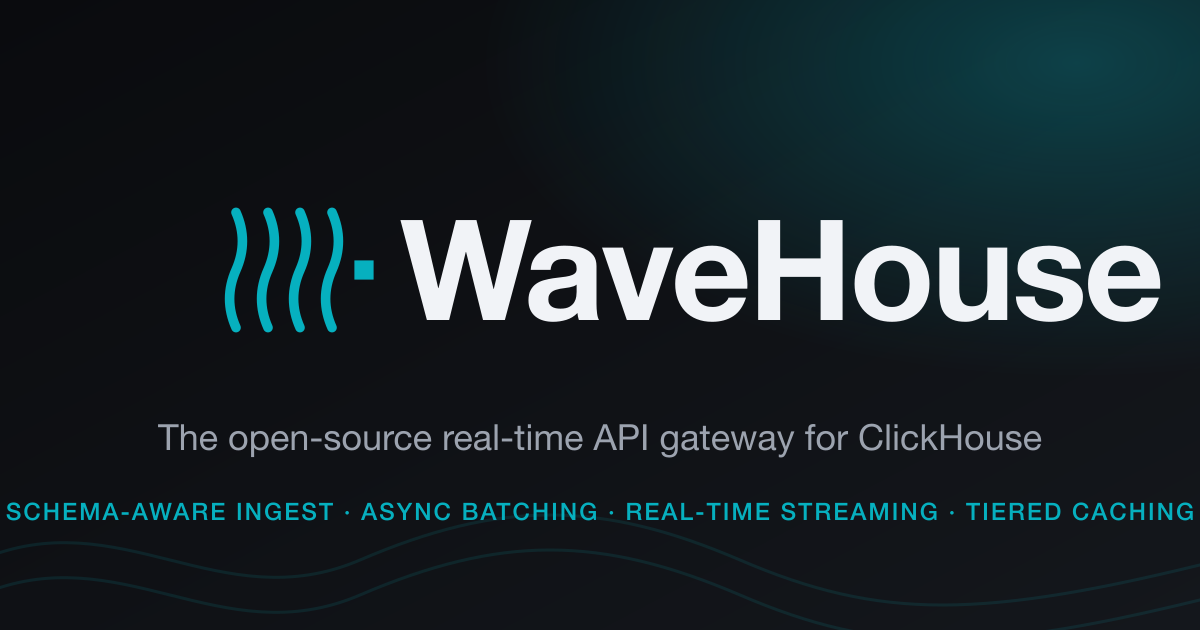
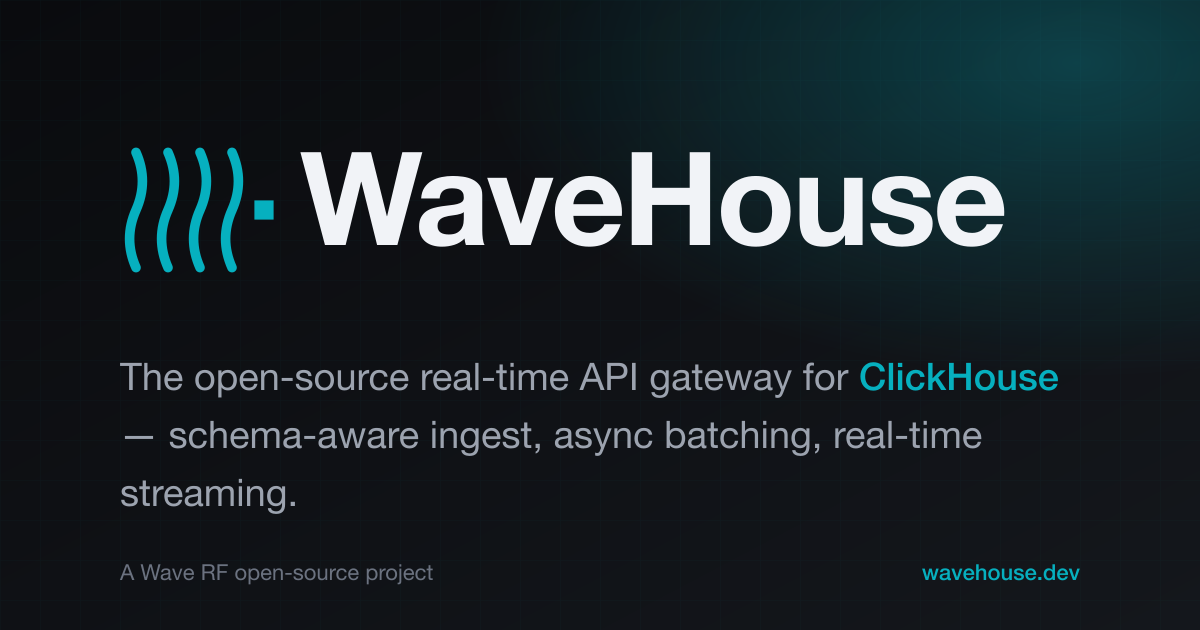
fix(docs): restore dramatic OG card design from the 26794bb intent
The og.png committed in 26794bb was a finished PNG produced by the
off-repo `docs/scripts/render-brand.mjs` Playwright pipeline, not by
`scripts/branding/og.template.svg` — the template still had the older
pre-redesign "wordmark + tagline + capability-pill" layout. When the
mark-centering fix in 1e13730 re-ran `bash scripts/branding/generate.sh`,
the template regenerated the boring layout and overwrote the dramatic
PNG. Eric noticed in the PR Files-changed view that the OG image was
much less distinct from main than what he originally reviewed.

og.template.svg now reproduces the dramatic layout natively, so
`make branding` is idempotent and won't regress this again:

- Faint accent-color grid pattern overlay between the gradient and the
  corner glow — replaces the old bottom-edge wave decoration.
- Mark (clickwave at scale 1.6 = 160 px) and wordmark ("WaveHouse",
  130 px) sit side-by-side in the upper-left, with the mark centered
  near the wordmark's cap height.
- Multi-line tagline left-aligned to x=120: "The open-source real-time
  API gateway for ClickHouse — schema-aware ingest, async batching,
  real-time streaming." Pre-broken across three tspans (SVG <text>
  doesn't auto-wrap). "ClickHouse" highlighted in #06B0BF at
  font-weight 500 to echo the for-ClickHouse relationship visually.
- Footer row: "A Wave RF open-source project" left in muted gray,
  "wavehouse.dev" right in the accent color (doubles as a CTA when
[…]

diff --git a/CHANGELOG.md b/CHANGELOG.md
@@ -39,7 +39,7 @@ and this project adheres to [Semantic Versioning](https://semver.org/spec/v2.0.0
 - **Astro / Starlight documentation site at `wavehouse.dev`** (`docs/`, `Makefile`, `.github/dependabot.yml`, `.github/workflows/ci.yml`, `.gitignore`, `.vscode/launch.json`): full content + tooling for the public docs (Getting Started, Why WaveHouse, Architecture, API Reference, TypeScript SDK, Configuration, Deployment, Development). Build-time mermaid via `rehype-mermaid` (inline-svg strategy, no client-side JS), LaTeX via `remark-math` + `rehype-katex`, image zoom via `starlight-image-zoom`, expressiveCode with github dark/light + `env`/`dns` Shiki language aliases. PostHog frontend telemetry (key is public by design — embedded in every visitor's browser). `editLink` pointed at `main`; `lastUpdated` on. Sidebar lives in `docs/src/config/sidebar.ts` as the single source of truth, consumed by both Starlight rendering and the LLM-friendly outputs below. Cloudflare Workers + Static Assets deployment via `docs/wrangler.jsonc` (no auto-deploy yet — wired up when the GH Actions workflow lands separately). Make targets stay minimal: `dev-docs` (Astro dev server on :4321), `build-docs`, `preview-docs` — the last serves the production build through `wrangler dev`, so the Cloudflare Worker's content negotiation (`Accept: text/markdown` / LLM-bot User-Agent → `.md` twin) is exercised end-to-end the same way it will be in production.
 - **Per-page `.md` twin + `llms.txt` family via `starlight-llm-tools`** (`docs/astro.config.mjs`, `docs/worker/index.ts`, `docs/wrangler.jsonc`): every doc is also served as raw markdown at `<path>.md` with a navigation header (Section / Subpages / Related / HTML version pointers), plus three concatenated views — `/llms.txt` manifest, `/llms-full.txt` (every page, sidebar-ordered), `/llms-small.txt` (overview pages only). Page-title slot gains a **Copy Markdown** button and **Open with AI** dropdown (Claude / ChatGPT / Cursor). Content negotiation is handled by a Cloudflare Worker that re-exports the `cloudflare-md-router` package's default handler in one line — `Accept: text/markdown` or known LLM-bot User-Agent (GPTBot, ClaudeBot, PerplexityBot, Applebot-Extended, etc.) gets the `.md` twin transparently, with a fall-through to the HTML response when the twin doesn't exist.
 - **Two extracted plugin packages, MIT-licensed**: [`github.com/Wave-RF/cloudflare-md-router`](https://github.com/Wave-RF/cloudflare-md-router) (Workers handler + `createMdRouter()` factory + extensible bot-UA regex; consumed in `docs/worker/index.ts` as a one-line re-export) and [`github.com/Wave-RF/starlight-llm-tools`](https://github.com/Wave-RF/starlight-llm-tools) (Starlight plugin that auto-injects the four routes, the two components, and the `PageTitle` override; optionally calls into `starlight-glossary/transform` when present). Both pinned via `github:Wave-RF/...` in `docs/package.json`; lockfile pins the resolved commit SHAs. Pre-npm-publish state — switch to normal version specifiers when the packages land on npm.
-- **Custom WaveHouse mark + favicon / OG card / Starlight nav logo / README header, fed by a single-source `make branding` pipeline** (`scripts/branding/{mark.svg,og.template.svg,generate.sh}`, `Makefile`, `docs/astro.config.mjs`, `docs/public/{favicon.svg,favicon.ico,apple-touch-icon.png,og.png}`, `docs/src/assets/branding/wavehouse-mark-{light,dark}.svg`, `README.md`): replaces the default Astro sparkle favicon and the 🏖 emoji in the README header with the **clickwave** mark — four vertical sine-curve columns + a filled cursor square on the right, on a 100-unit viewBox. The columns echo ClickHouse's column-store grammar; the cursor square reads as both the "click" in ClickHouse and a "live cell" indicator for the streaming/real-time story. Brand colors live as design tokens: `#086D77` deep teal on light backgrounds, `#06B0BF` electric blue (Wave RF parent brand) on dark — both also exposed in `docs/src/styles/global.css` as `--wh-accent` / `--wh-accent-hi`. `scripts/branding/mark.svg` is the single source of truth (one multi-element SVG using `stroke="currentColor"` for the wave columns and `fill="currentColor"` for the cursor square); `make branding` extracts its inner content + viewBox and emits six derived artifacts via `rsvg-convert` + ImageMagick: a CSS-swap browser favicon (`:root{color}` block flips via `prefers-color-scheme:dark` and the inner `currentColor` attributes inherit, covering both stroke and fill in one declaration), a multi-resolution legacy `favicon.ico` (16/32/48), a 180×180 iOS home-screen tile (`apple-touch-icon.png`; electric-blue mark on near-black `#0A0B0E` background, scale rebased to `1.24` for the new 100-unit viewBox, solid because transparent apple-touch icons render a white halo on iOS), a 1200×630 OG card rendered from `og.template.svg` (gradient + wordmark + tagline + subtle wave texture baked in, mark spliced into a `__MARK_GROUP__` placeholder via `sed`, scale rebased to `1.6`), and the two hardcoded-color Starlight nav SVGs that Starlight's `logo: { light, dark }` config picks between (CSS media queries inside an SVG don't fire when loaded via `<img>`, so a single CSS-swap SVG won't work in the nav). Wave-column centers + cursor square shifted left by 4 units inside the viewBox so left and right padding match — without the shift the cursor square sits flush against the right edge while the leftmost wave has ~7 units of breathing room. `make branding` is **not** wired into `build-docs` or any CI workflow — derived artifacts are committed so contributors don't need `librsvg` / `imagemagick` on their PATH to build docs, only someone iterating on the mark itself does. `astro.config.mjs` gains the Starlight `logo:` block and the `<link rel="apple-touch-icon">` head tag; the legacy `favicon.ico` still ships in `public/` so older clients (IE/Edge, some RSS readers) that can't load SVG favicons auto-probe `/favicon.ico` from the site root by convention — no explicit `<link>` tag needed. README H1 uses a `<picture>` element with `<source media="(prefers-color-scheme: dark)">` so GitHub renders the right variant per visitor theme. Future edits: tweak `mark.svg` (or `COLOR_*` in `generate.sh`, or the OG composition in `og.template.svg`), run `make branding`, commit the diff.
+- **Custom WaveHouse mark + favicon / OG card / Starlight nav logo / README header, fed by a single-source `make branding` pipeline** (`scripts/branding/{mark.svg,og.template.svg,generate.sh}`, `Makefile`, `docs/astro.config.mjs`, `docs/public/{favicon.svg,favicon.ico,apple-touch-icon.png,og.png}`, `docs/src/assets/branding/wavehouse-mark-{light,dark}.svg`, `README.md`): replaces the default Astro sparkle favicon and the 🏖 emoji in the README header with the **clickwave** mark — four vertical sine-curve columns + a filled cursor square on the right, on a 100-unit viewBox. The columns echo ClickHouse's column-store grammar; the cursor square reads as both the "click" in ClickHouse and a "live cell" indicator for the streaming/real-time story. Brand colors live as design tokens: `#086D77` deep teal on light backgrounds, `#06B0BF` electric blue (Wave RF parent brand) on dark — both also exposed in `docs/src/styles/global.css` as `--wh-accent` / `--wh-accent-hi`. `scripts/branding/mark.svg` is the single source of truth (one multi-element SVG using `stroke="currentColor"` for the wave columns and `fill="currentColor"` for the cursor square); `make branding` extracts its inner content + viewBox and emits six derived artifacts via `rsvg-convert` + ImageMagick: a CSS-swap browser favicon (`:root{color}` block flips via `prefers-color-scheme:dark` and the inner `currentColor` attributes inherit, covering both stroke and fill in one declaration), a multi-resolution legacy `favicon.ico` (16/32/48), a 180×180 iOS home-screen tile (`apple-touch-icon.png`; electric-blue mark on near-black `#0A0B0E` background, scale rebased to `1.24` for the new 100-unit viewBox, solid because transparent apple-touch icons render a white halo on iOS), a 1200×630 OG card rendered from `og.template.svg` (gradient background + faint accent grid + corner radial glow + clickwave mark and `WaveHouse` wordmark sharing the top half + three-line tagline with `ClickHouse` highlighted in the accent color + footer row pairing `A Wave RF open-source project` (left) with `wavehouse.dev` (right), mark spliced into a `__MARK_GROUP__` placeholder via `sed`, scale `1.6`), and the two hardcoded-color Starlight nav SVGs that Starlight's `logo: { light, dark }` config picks between (CSS media queries inside an SVG don't fire when loaded via `<img>`, so a single CSS-swap SVG won't work in the nav). Wave-column centers + cursor square shifted left by 4 units inside the viewBox so left and right padding match — without the shift the cursor square sits flush against the right edge while the leftmost wave has ~7 units of breathing room. `make branding` is **not** wired into `build-docs` or any CI workflow — derived artifacts are committed so contributors don't need `librsvg` / `imagemagick` on their PATH to build docs, only someone iterating on the mark itself does. `astro.config.mjs` gains the Starlight `logo:` block and the `<link rel="apple-touch-icon">` head tag; the legacy `favicon.ico` still ships in `public/` so older clients (IE/Edge, some RSS readers) that can't load SVG favicons auto-probe `/favicon.ico` from the site root by convention — no explicit `<link>` tag needed. README H1 uses a `<picture>` element with `<source media="(prefers-color-scheme: dark)">` so GitHub renders the right variant per visitor theme. Future edits: tweak `mark.svg` (or `COLOR_*` in `generate.sh`, or the OG composition in `og.template.svg`), run `make branding`, commit the diff.
 - **Documentation site design-system rebuild with custom Hero / Header / SiteTitle / Footer components** (`docs/src/styles/global.css`, `docs/src/components/{Hero,Footer,SiteTitle,Head}.astro`, `docs/src/content/docs/index.mdx`, `docs/astro.config.mjs`, `docs/package.json`, `Makefile`, `docs/scripts/screenshot.mjs`): replaces the previous `custom.css` baseline with a full Tailwind v4 token system in `global.css` — accent / ink / surface / border tokens for both light and dark themes, plus Starlight `--sl-color-*` overrides so the existing Starlight chrome picks up the WaveHouse palette without per-page overrides. New `Hero.astro` powers the splash landing page (`index.mdx`) with an animated terminal preview, stats grid, and CTA actions; `Footer.astro` adds a brand-aware site-wide footer with Docs / Operations / Project link columns and a copyright row; `SiteTitle.astro` replaces Starlight's default header title with the clickwave mark + wordmark and a small hover transform; `Head.astro` adds theme-color meta tags for both color schemes. New runtime deps: `@astrojs/starlight-tailwind`, `@tailwindcss/vite`, `tailwindcss@4`, `@fontsource-variable/inter`, `@fontsource-variable/jetbrains-mono`. `docs/scripts/screenshot.mjs` is a new Playwright-based visual-regression script (`pnpm exec node scripts/screenshot.mjs` from `docs/`, with `make dev-docs` running in another shell on :4321) that captures landing / getting-started / API / architecture pages in both themes at desktop and mobile widths, used for design iteration and golden-image diffing. `make install-docs` also runs `pnpm exec playwright install chromium` so `rehype-mermaid`'s SSR diagram pipeline (used by `architecture.md` / `why-wavehouse.md`) and `starlight-links-validator` can run in CI without an out-of-band Chromium install step.
 - **In-process OTLP gRPC test receiver + integration tests for the OTel pipeline** (`internal/testutil/otlp.go`, `tests/integration/otel_test.go`): `testutil.NewFakeOTLP(t)` binds a gRPC server on `127.0.0.1:0`, registers the trace/metric/log Export services, and captures every received payload — exposing `SpanCount()`, `MetricCount()`, `LogCount()`, and `LogCountAtLevel()` for assertions. Test cases verify trace sampling (1.0 → all, 0.5 → ~half within binomial tolerance, 0.0 → none), the WARN+ERROR floor (logs at `sample_rate=0.0` still export 100% of WARN/ERROR), per-signal gating (traces-only, logs-only), and the unreachable-endpoint invariant (InitProvider succeeds on lazy gRPC dial, emits don't block on failed export). Avoids spinning a full SigNoz stack in CI — the receiver is ~150 LOC and the whole suite runs in <5s.
 - **OpenTelemetry pipeline is now opt-in via `[otel]` config block with per-signal gates and configurable sampling** (`internal/config/config.go`, `cmd/wavehouse/main.go`, `internal/observability/provider.go`, `internal/observability/logger.go`, `config.yaml`, `docs/configuration.md`, `docs/deployment.md`): `otel.enabled` (`WH_OTEL_ENABLED`, default `false`) is the master switch, and `otel.addr` (`WH_OTEL_ADDR`, default `127.0.0.1:4317`) points at the OTLP gRPC collector. Each signal is then individually gated: `otel.traces.{enabled,sample_rate}` (head-based, default `1.0` — matches the OpenTelemetry SDK default), `otel.metrics.enabled` (no sampling — pre-aggregated), `otel.logs.{enabled,sample_rate}` (DEBUG/INFO at default `1.0` — `WARN`/`ERROR` always export at 100% as a non-configurable safety floor). All sampling knobs apply only to the OTLP push path; stdout always emits 100% of records (scraping-style pipelines like Promtail/Alloy → Loki own their own ingest policy). All sample rates are validated to `[0.0, 1.0]` at config load. Stdout logging is always active (the logger fans out to both stdout and OTLP), so logs never disappear regardless of collector state. gRPC exporters are lazy, so an unreachable collector does not block startup — startup was previously fatal on OTel init failure, now it is not. `WH_LOG_LEVEL` (`DEBUG`/`INFO`/`WARN`/`ERROR`, case-insensitive) now drives the slog `LevelVar` for both stdout and the OTLP log exporter. `provider.go` adds the `otlploggrpc` log exporter alongside the existing trace/metric exporters and registers the global OTel logger provider. `InitProvider` now takes a `ProviderConfig` struct AND returns a `(shutdown, promHandler http.Handler, err)` triple (breaking signature change within the internal package); `NewLogger` gains a `otlpSampleRate float64` parameter.
